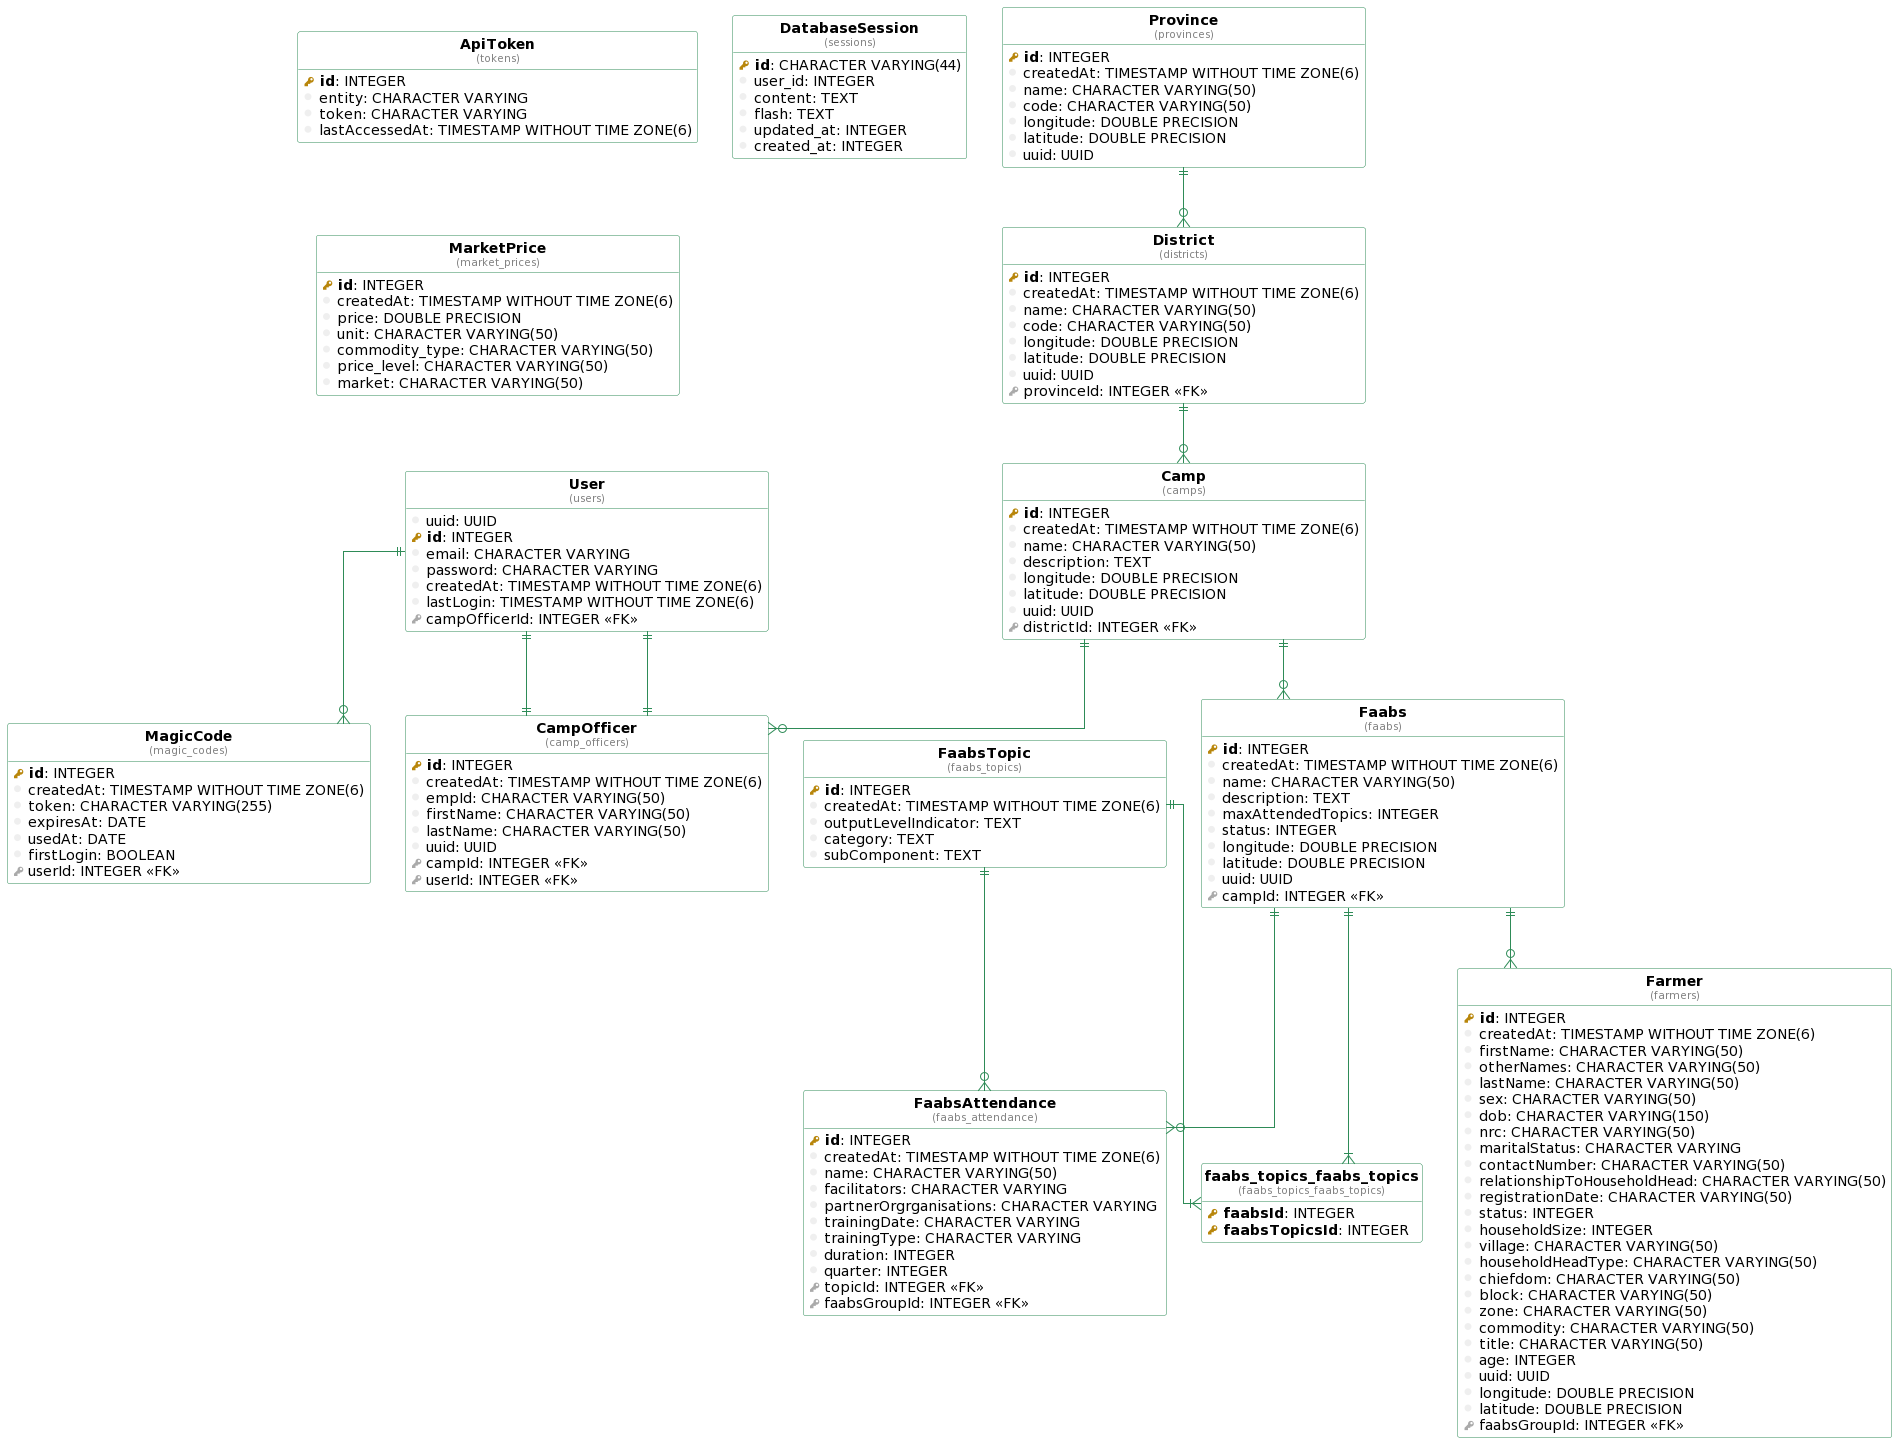
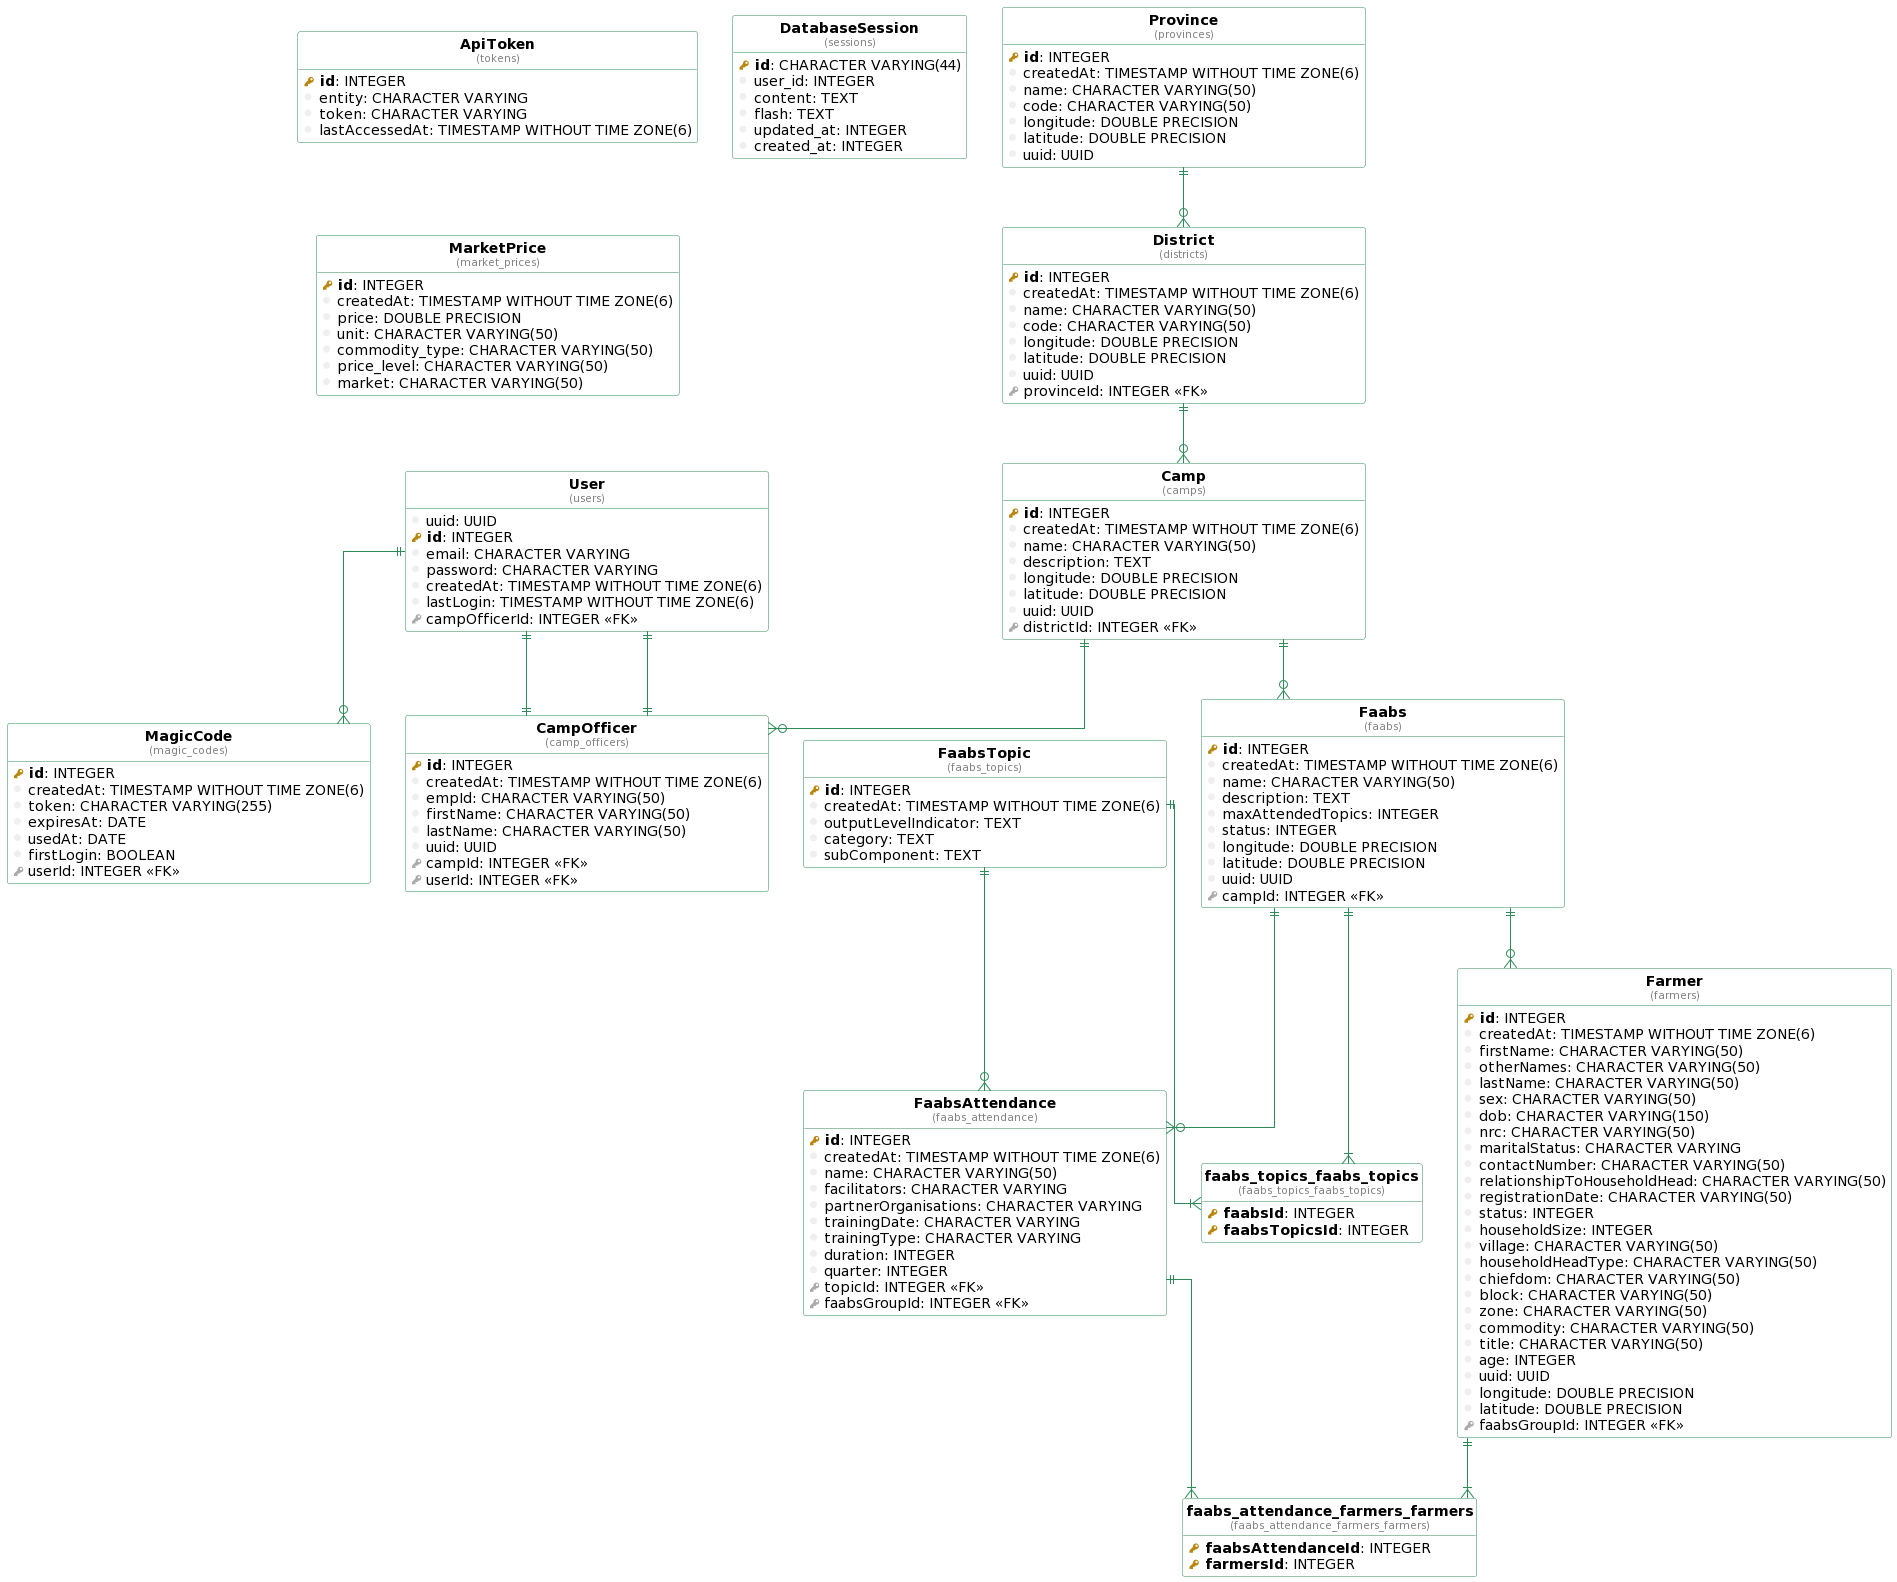
Newer additions

diff --git a/src/app/services/Faabs.ts b/src/app/services/Faabs.ts
@@ -1,4 +1,5 @@
-import { Faabs } from "app/models";
+import { Faabs, FaabsAttendance, FaabsTopic, Farmer } from 'app/models';
+// import { FaabsAPI } from 'app/types';
 
 export class FaabsService {
 
@@ -7,10 +8,12 @@ export class FaabsService {
   //  */
   async allFaabsGroups(campId: string) {
     const faabs = await Faabs.createQueryBuilder('faabs')
-      .innerJoinAndSelect('faabs.farmers', 'farmers')
-      .innerJoinAndSelect('faabs.camp', 'camp')
-      .innerJoinAndSelect('faabs.topics', 'topics')
+      .leftJoinAndSelect('faabs.farmers', 'farmers')
+      .leftJoinAndSelect('faabs.camp', 'camp')
+      .leftJoinAndSelect('faabs.topics', 'topics')
       .leftJoinAndSelect('faabs.attendance', 'attendance')
+      // .leftJoinAndSelect('attendance.farmers', 'attendance.farmers')
+
       .where({
         camp: campId
       })
@@ -18,8 +21,69 @@ export class FaabsService {
 
     return faabs;
   }
+  async allFaabsTopics() {
+    const faabs = await FaabsTopic.createQueryBuilder('topics')
+      .getMany();
+    return faabs;
+  }
 
+  async add(data: any) {
+    const {
+      name,
+      description,
+      topics,
+      maxAttendedTopics,
+      campId,
+      latitude,
+      longitude
+    } = data;
+    console.log(maxAttendedTopics)
+    const faabs = new Faabs();
 
+    const topic = await FaabsTopic.findByIds([topics]);
+    faabs.topics = topic;
+
+    faabs.name = name;
+    faabs.description = description;
+    faabs.camp = campId;
+    faabs.latitude = latitude;
+    faabs.longitude = longitude;
+    faabs.maxAttendedTopics = Number (maxAttendedTopics);
+    faabs.status = 1;
+
+    await faabs.save();
+
+    return faabs;
+  }
+
+  async addAttendance(data: any) {
+    const {
+      faabsGroup,
+      farmers,
+      topic,
+      facilitators,
+      partnerOrganisations,
+      trainingDate,
+      duration,
+      quarter,
+      trainingType
+    } = data;
+
+    const faabsAttendance = new FaabsAttendance();
+
+    faabsAttendance.faabsGroup = faabsGroup
+    faabsAttendance.farmers = await Farmer.findByIds(farmers)
+    faabsAttendance.topic = topic
+    faabsAttendance.facilitators = facilitators
+    faabsAttendance.partnerOrganisations = partnerOrganisations
+    faabsAttendance.trainingDate = trainingDate
+    faabsAttendance.duration = duration
+    faabsAttendance.quarter = quarter
+    faabsAttendance.trainingType = trainingType
+
+    await faabsAttendance.save();
+    return faabsAttendance;
+  }
   // async getTicket(ownerUserId: string, ticketUuid: string) {
   //   const ticket = await Ticket.createQueryBuilder('ticket')
   //     .where({

diff --git a/src/app/controllers/api/faabs.controller.ts b/src/app/controllers/api/faabs.controller.ts
@@ -1,20 +1,50 @@
 import {
   // Context,
-  // HttpResponseOK,
+  HttpResponseOK,
   // Get,
-  dependency,
+  dependency, Get, Context, Post,
 } from '@foal/core';
-import { JWTRequired } from '@foal/jwt';
-import { RefreshJWT } from 'app/hooks';
+// import { JWTRequired } from '@foal/jwt';
+// import { RefreshJWT } from 'app/hooks';
 
 import { FaabsService } from 'app/services';
 
-@JWTRequired({ cookie: true})
-@RefreshJWT()
+// @JWTRequired({ cookie: true})
+// @RefreshJWT()
 export class FaabsController {
   @dependency
   faabsService: FaabsService;
 
+  @Get('/:campId')
+  async getAll(ctx: Context) {
+      const { campId } = ctx.request.params;
+      const faabs = await this.faabsService.allFaabsGroups(campId);
+      return new HttpResponseOK(faabs);
+    }
+
+  @Get('/topics/all')
+  async getTopics() {
+      const faabsTopics = await this.faabsService.allFaabsTopics();
+      return new HttpResponseOK(faabsTopics);
+    }
+
+
+    @Post('/:faabsId/attendance/submit')
+    async submitAttendace(ctx: Context) {
+      const body = ctx.request.body;
+      const { faabsId } = ctx.request.params;
+      console.log(body)
+      const faabsAttendance = await this.faabsService.addAttendance({...body, faabsGroup: faabsId});
+      return new HttpResponseOK({ faabs: faabsAttendance });
+    }
+
+  @Post('/submit')
+  async submit(ctx: Context) {
+    const body = ctx.request.body;
+    console.log(body)
+    const faabs = await this.faabsService.add(body);
+    return new HttpResponseOK({ faabs });
+  }
   // @Get('/:campId')
   // async getAll(ctx: Context) {
   //   const { user } = ctx;

diff --git a/src/app/models/FaabsAttendance.ts b/src/app/models/FaabsAttendance.ts
@@ -2,9 +2,10 @@
 import {
   Entity,
   Column,
-  OneToMany,
   ManyToOne,
   JoinColumn,
+  ManyToMany,
+  JoinTable,
 } from 'typeorm';
 
 import { Faabs, Farmer, FaabsTopic } from '.';
@@ -22,7 +23,7 @@ export class FaabsAttendance extends BaseTable implements FaabsAttendanceAPI {
   facilitators: string;
 
   @Column('varchar', { nullable: true })
-  partnerOrgrganisations: string;
+  partnerOrganisations: string;
 
   @Column('varchar', { nullable: true })
   trainingDate: string;
@@ -44,11 +45,7 @@ export class FaabsAttendance extends BaseTable implements FaabsAttendanceAPI {
   @ManyToOne(() => Faabs)
   faabsGroup: Faabs;
 
-  @OneToMany(() => Farmer, (farmer) => farmer.faabsGroup, {
-    cascade: true,
-  })
-  @JoinColumn()
+  @JoinTable()
+  @ManyToMany(() => Farmer, (farmer) => farmer.attendance, {})
   farmers: Farmer[];
-
-
 }

diff --git a/src/app/models/Farmer.ts b/src/app/models/Farmer.ts
@@ -10,6 +10,7 @@ import {
 import { Faabs } from '.'
 import { BaseTable } from './BaseTable';
 import { FarmerAPI } from 'app/types';
+import { FaabsAttendance } from './FaabsAttendance';
 
 @Entity({ name: 'farmers' })
 export class Farmer extends BaseTable implements FarmerAPI {
@@ -87,5 +88,8 @@ export class Farmer extends BaseTable implements FarmerAPI {
 
   @Column('float', { nullable: true })
   latitude: number;
+
+  @JoinColumn()
+  attendance: FaabsAttendance;
 
 }

diff --git a/src/app/types/index.ts b/src/app/types/index.ts
@@ -15,7 +15,7 @@ export interface FaabsAttendanceAPI {
   farmers: FarmerAPI[];
   topic: FaabsTopicAPI;
   facilitators: string;
-  partnerOrgrganisations: string;
+  partnerOrganisations: string;
   trainingDate: string;
   duration: number;
   quarter: number;
